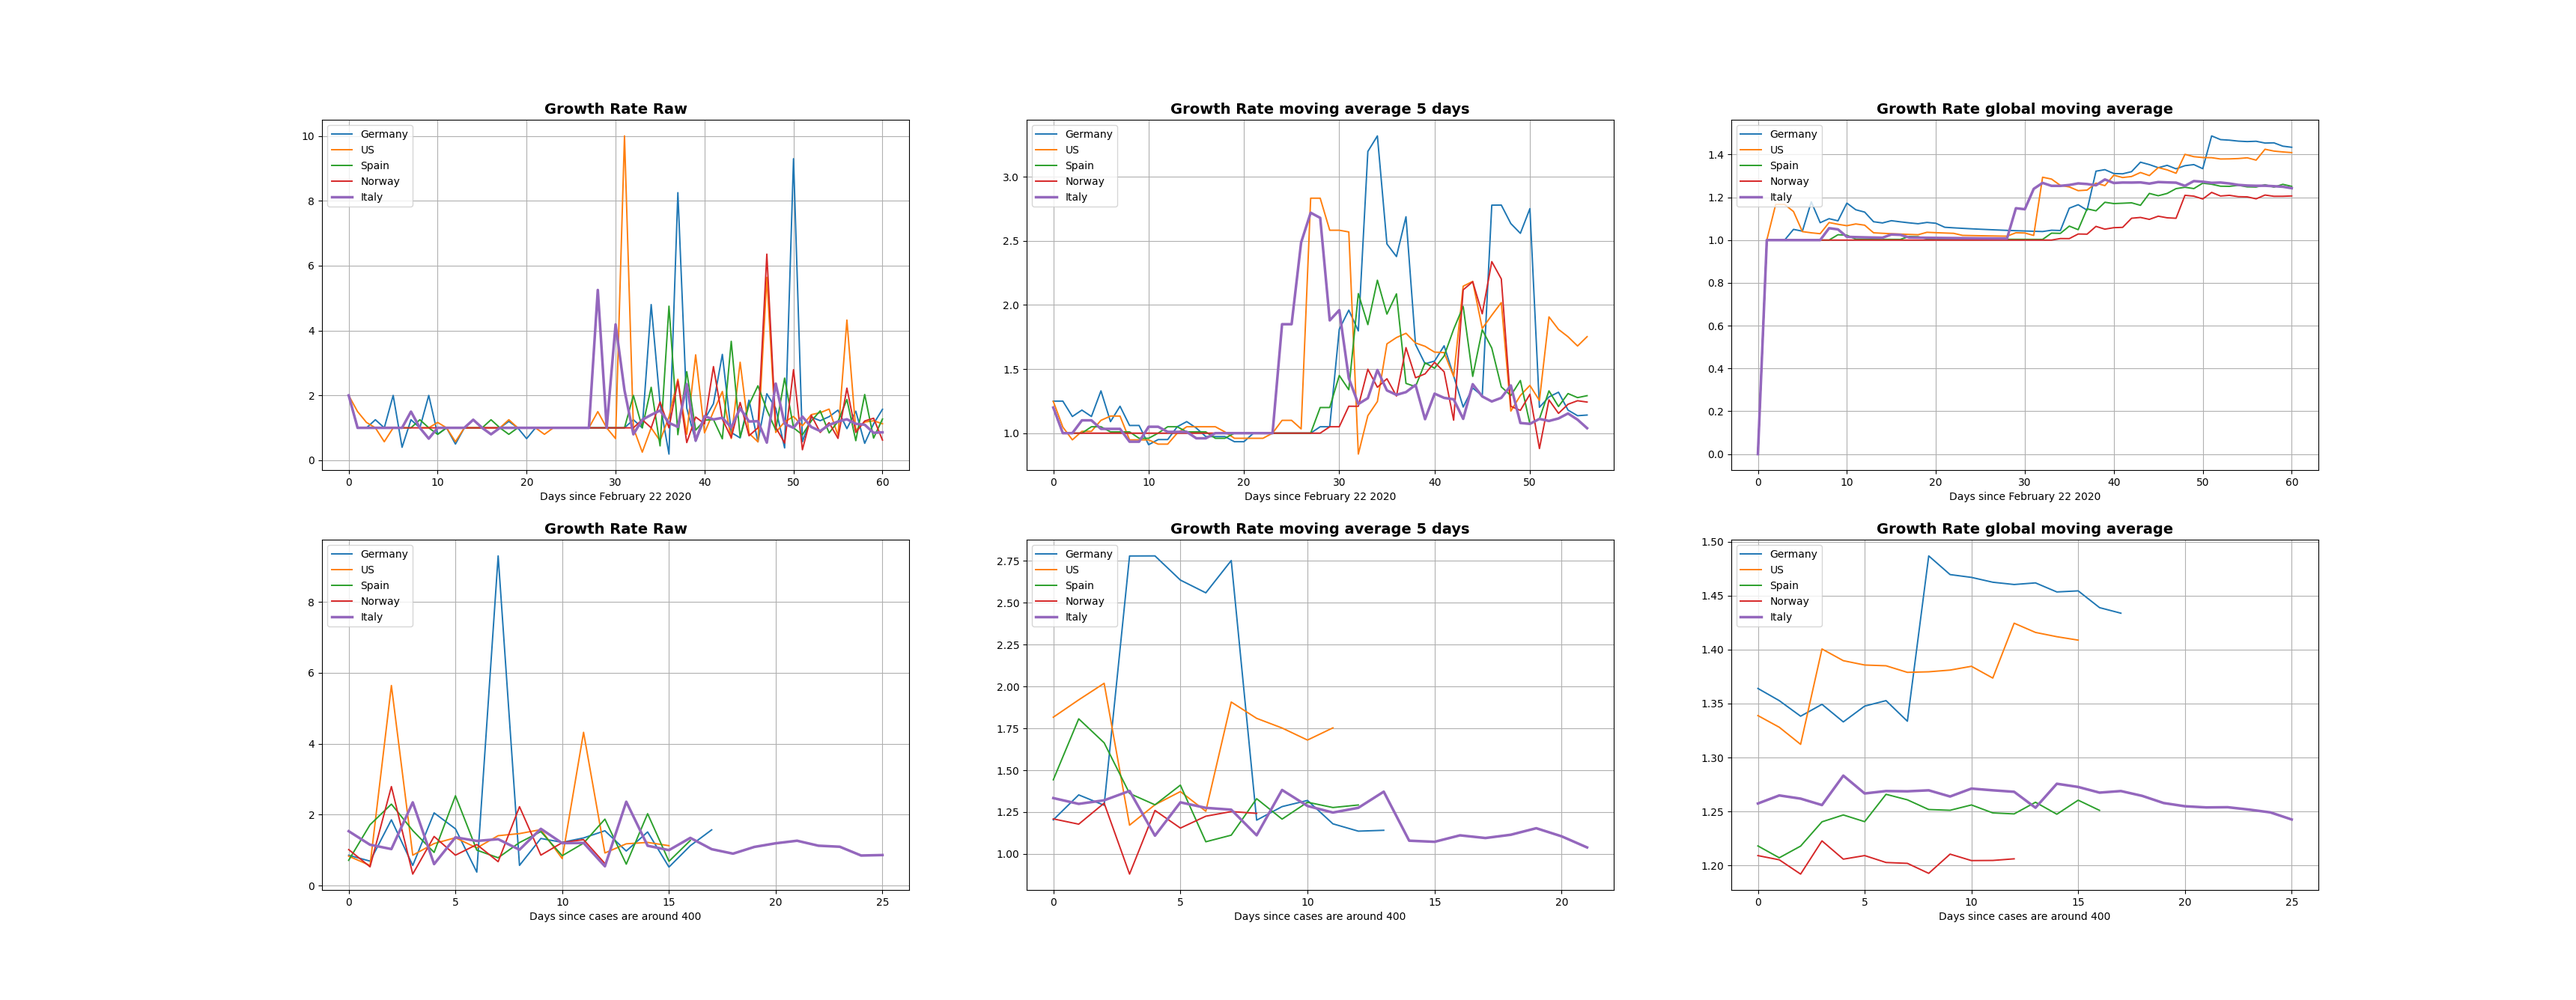
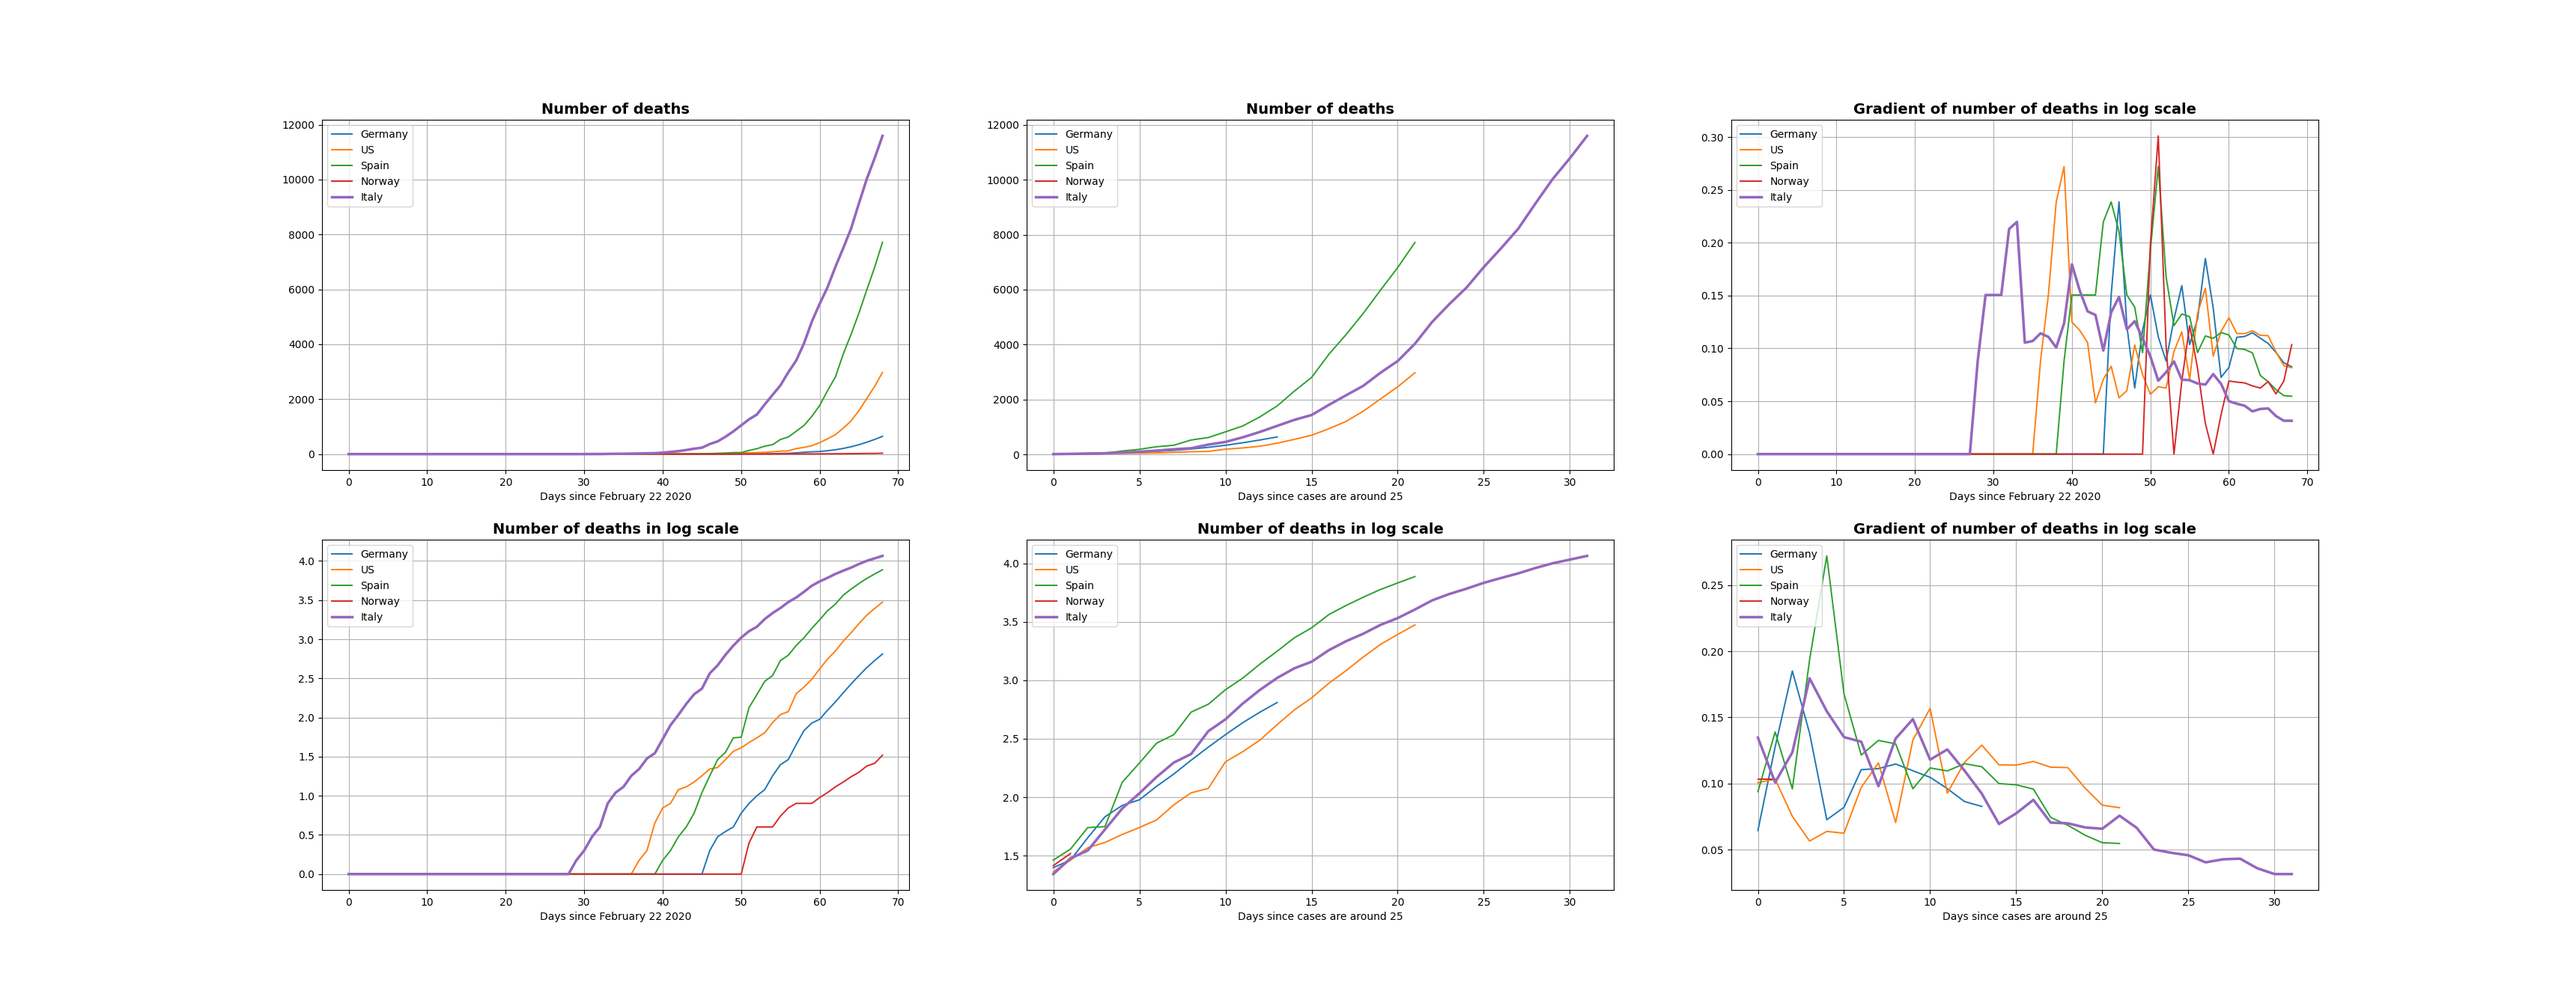
Plot deaths and not growth

diff --git a/utils/plot.py b/utils/plot.py
@@ -1,7 +1,7 @@
 import matplotlib.pyplot as plt
 import numpy as np
 
-def plot_cases(confirmed, align_indexes, align_around):
+def plot(confirmed, align_indexes, align_around, title):
     # Simple graph
     plt.subplot(2, 3, 1)
     for c, v in confirmed.items():
@@ -12,7 +12,7 @@ def plot_cases(confirmed, align_indexes, align_around):
         plt.plot(v, label=c, linewidth=linewidth)
 
     plt.legend(loc="upper left")
-    plt.title("Number of cases", fontsize=14, fontweight='bold')
+    plt.title(f"Number of {title}", fontsize=14, fontweight='bold')
     plt.xlabel(f"Days since February 22 2020")
     plt.grid()
 
@@ -26,7 +26,7 @@ def plot_cases(confirmed, align_indexes, align_around):
         plt.plot(v[align_indexes[c]:], label=c, linewidth=linewidth)
         
     plt.legend(loc="upper left")
-    plt.title("Number of cases", fontsize=14, fontweight='bold')
+    plt.title(f"Number of {title}", fontsize=14, fontweight='bold')
     plt.xlabel(f"Days since cases are around {align_around}")
     plt.grid()
 
@@ -43,7 +43,7 @@ def plot_cases(confirmed, align_indexes, align_around):
         plt.plot(array, label=c, linewidth=linewidth)
 
     plt.legend(loc="upper left")
-    plt.title("Gradient of number of cases in log scale", fontsize=14, fontweight='bold')
+    plt.title(f"Gradient of number of {title} in log scale", fontsize=14, fontweight='bold')
     plt.xlabel(f"Days since February 22 2020")
     plt.grid()
 
@@ -58,7 +58,7 @@ def plot_cases(confirmed, align_indexes, align_around):
         plt.plot(np.log10(array+1), label=c, linewidth=linewidth)
 
     plt.legend(loc="upper left")
-    plt.title("Number of cases in log scale", fontsize=14, fontweight='bold')
+    plt.title(f"Number of {title} in log scale", fontsize=14, fontweight='bold')
     plt.xlabel(f"Days since February 22 2020")
     plt.grid()
 
@@ -73,7 +73,7 @@ def plot_cases(confirmed, align_indexes, align_around):
         plt.plot(np.log10(array[align_indexes[c]:]+1), label=c, linewidth=linewidth)
 
     plt.legend(loc="upper left")
-    plt.title("Number of cases in log scale", fontsize=14, fontweight='bold')
+    plt.title(f"Number of {title} in log scale", fontsize=14, fontweight='bold')
     plt.xlabel(f"Days since cases are around {align_around}")
     plt.grid()
 
@@ -91,92 +91,7 @@ def plot_cases(confirmed, align_indexes, align_around):
         plt.plot(array, label=c, linewidth=linewidth)
 
     plt.legend(loc="upper left")
-    plt.title("Gradient of number of cases in log scale", fontsize=14, fontweight='bold')
-    plt.xlabel(f"Days since cases are around {align_around}")
-    plt.grid()
-
-    plt.show()
-
-
-def plot_growth(growths, align_indexes, align_around):
-    growth_rate, growth_rate_moving_average, growth_rate_global_moving_average = growths
-    # Raw Growth Rate
-    plt.subplot(2, 3, 1)
-    for c, v in growth_rate.items():
-        if c == "Italy" or c == "VA":
-            linewidth = 2.5
-        else:
-            linewidth = 1.4
-        plt.plot(v, label=c, linewidth=linewidth)
-        
-    plt.legend(loc="upper left")
-    plt.title("Growth Rate Raw", fontsize=14, fontweight='bold')
-    plt.xlabel(f"Days since February 22 2020")
-    plt.grid()
-
-    # Raw Growth Rate
-    plt.subplot(2, 3, 2)
-    for c, v in growth_rate_moving_average.items():
-        if c == "Italy" or c == "VA":
-            linewidth = 2.5
-        else:
-            linewidth = 1.4
-        plt.plot(v, label=c, linewidth=linewidth)
-        
-    plt.legend(loc="upper left")
-    plt.title("Growth Rate moving average 5 days", fontsize=14, fontweight='bold')
-    plt.xlabel(f"Days since February 22 2020")
-    plt.grid()
-
-    plt.subplot(2, 3, 3)
-    for c, v in growth_rate_global_moving_average.items():
-        if c == "Italy" or c == "VA":
-            linewidth = 2.5
-        else:
-            linewidth = 1.4
-        plt.plot(v, label=c, linewidth=linewidth)
-        
-    plt.legend(loc="upper left")
-    plt.title("Growth Rate global moving average", fontsize=14, fontweight='bold')
-    plt.xlabel(f"Days since February 22 2020")
-    plt.grid()
-
-    plt.subplot(2, 3, 4)
-    for c, v in growth_rate.items():
-        if c == "Italy" or c == "VA":
-            linewidth = 2.5
-        else:
-            linewidth = 1.4
-        plt.plot(v[align_indexes[c]:], label=c, linewidth=linewidth)
-        
-    plt.legend(loc="upper left")
-    plt.title("Growth Rate Raw", fontsize=14, fontweight='bold')
-    plt.xlabel(f"Days since cases are around {align_around}")
-    plt.grid()
-
-    plt.subplot(2, 3, 5)
-    for c, v in growth_rate_moving_average.items():
-        if c == "Italy" or c == "VA":
-            linewidth = 2.5
-        else:
-            linewidth = 1.4
-        plt.plot(v[align_indexes[c]:], label=c, linewidth=linewidth)
-        
-    plt.legend(loc="upper left")
-    plt.title("Growth Rate moving average 5 days", fontsize=14, fontweight='bold')
-    plt.xlabel(f"Days since cases are around {align_around}")
-    plt.grid()
-
-    plt.subplot(2, 3, 6)
-    for c, v in growth_rate_global_moving_average.items():
-        if c == "Italy" or c == "VA":
-            linewidth = 2.5
-        else:
-            linewidth = 1.4
-        plt.plot(v[align_indexes[c]:], label=c, linewidth=linewidth)
-        
-    plt.legend(loc="upper left")
-    plt.title("Growth Rate global moving average", fontsize=14, fontweight='bold')
+    plt.title(f"Gradient of number of {title} in log scale", fontsize=14, fontweight='bold')
     plt.xlabel(f"Days since cases are around {align_around}")
     plt.grid()
 

diff --git a/run_countries.py b/run_countries.py
@@ -3,28 +3,32 @@ import json
 from collections import defaultdict
 import numpy as np
 
-from utils.plot import plot_cases, plot_growth
+from utils.plot import plot
 from utils.country_data import compute_countries_confirmed_cases
-from utils.growth_rate import compute_growth_rate
 
-ALIGN_AROUND = 400 # cases
+ALIGN_AROUND = 100 # cases
 
 if __name__ == "__main__":    
     # Compute the number of cases for each country
-    confirmed = compute_countries_confirmed_cases()
+    confirmed, confirmed_deaths = compute_countries_confirmed_cases()
 
     # Compute maximum number of cases we can align around: min (ALIGN_AROUND, x)
     # Take the second biggest one
-    minimums = [sorted(v)[-2] for c, v in confirmed.items()]
-    new_align_around = np.minimum(ALIGN_AROUND, np.min(minimums))
+    minimums_cases = [sorted(v)[-2] for c, v in confirmed.items()]
+    minimums_deaths = [sorted(v)[-2] for c, v in confirmed_deaths.items()]
+    new_align_around_cases = np.minimum(ALIGN_AROUND, np.min(minimums_cases))
+    new_align_around_deaths = np.minimum(ALIGN_AROUND, np.min(minimums_deaths))
 
     # Compute the index for each country in order to align around the same number of cases
-    align_indexes = defaultdict(list)
+    align_indexes_cases = defaultdict(list)
+    align_indexes_deaths = defaultdict(list)
+
     for c, v in confirmed.items():
-        dist = np.abs(np.array(v) - new_align_around)
-        align_indexes[c] = np.argmin(dist)
+        dist = np.abs(np.array(v) - new_align_around_cases)
+        align_indexes_cases[c] = np.argmin(dist)
+    for c, v in confirmed_deaths.items():
+        dist = np.abs(np.array(v) - new_align_around_deaths)
+        align_indexes_deaths[c] = np.argmin(dist)
 
-    growths = compute_growth_rate(confirmed)
-
-    plot_cases(confirmed, align_indexes, new_align_around)
-    plot_growth(growths, align_indexes, new_align_around)
+    plot(confirmed, align_indexes_cases, new_align_around_cases, "cases")
+    plot(confirmed_deaths, align_indexes_deaths, new_align_around_deaths, "deaths")

diff --git a/utils/country_data.py b/utils/country_data.py
@@ -23,17 +23,27 @@ def compute_countries_confirmed_cases() -> dict:
     # Get all data for each country
     all_countries = parse_countries()
     confirmed = defaultdict(list)
+    confirmed_deaths = defaultdict(list)
     
     for c in all_countries:
-        local_data = [d.get("confirmed") for d in data[c]]
+        local_data_cases = [d.get("confirmed") for d in data[c]]
+        local_data_deaths = [d.get("deaths") for d in data[c]]
         # Clean when there are dates with no update and a "sudden" jump
-        new_local_data = list()
+        new_local_data_cases = list()
+        new_local_data_deaths = list()
 
-        for idx, d in enumerate(local_data):
-            if idx > 1 and idx < len(local_data) and d - local_data[idx-1] == 0:
-                new_local_data.append((local_data[idx-1] + local_data[idx+1]) / 2)
+        for idx, d in enumerate(local_data_cases):
+            if idx > 1 and idx < len(local_data_cases) and d - local_data_cases[idx-1] == 0:
+                new_local_data_cases.append((local_data_cases[idx-1] + local_data_cases[idx+1]) / 2)
             else:
-                new_local_data.append(d)
+                new_local_data_cases.append(d)
 
-        confirmed[c] = new_local_data
-    return confirmed
+        for idx, d in enumerate(local_data_deaths):
+            if idx > 1 and idx < len(local_data_deaths) and d - local_data_deaths[idx-1] == 0:
+                new_local_data_deaths.append((local_data_deaths[idx-1] + local_data_deaths[idx+1]) / 2)
+            else:
+                new_local_data_deaths.append(d)
+
+        confirmed[c] = new_local_data_cases
+        confirmed_deaths[c] = new_local_data_deaths
+    return confirmed, confirmed_deaths

diff --git a/run_italy.py b/run_italy.py
@@ -3,9 +3,8 @@ import json
 from collections import defaultdict
 import numpy as np
 
-from utils.plot import plot_cases, plot_growth
+from utils.plot import plot
 from utils.italy_data import compute_provinces_confirmed_cases
-from utils.growth_rate import compute_growth_rate
 
 ALIGN_AROUND = 20 # cases
 
@@ -24,7 +23,5 @@ if __name__ == "__main__":
         dist = np.abs(np.array(v) - ALIGN_AROUND)
         align_indexes[c] = np.argmin(dist)
 
-    growths = compute_growth_rate(confirmed)
 
-    plot_cases(confirmed, align_indexes, ALIGN_AROUND)
-    plot_growth(growths, align_indexes, ALIGN_AROUND)
+    plot(confirmed, align_indexes, ALIGN_AROUND, "cases")

diff --git a/utils/italy_data.py b/utils/italy_data.py
@@ -30,7 +30,7 @@ def compute_provinces_confirmed_cases() -> dict:
 
         # Clean from "mistakes" in the data
         for idx, d in enumerate(local_data):
-            if idx > 1 and idx < len(local_data) and d - local_data[idx-1] == 0:
+            if idx > 1 and idx < (len(local_data)-1) and d - local_data[idx-1] == 0:
                 # Clean when there are dates with no update and a "sudden" jump
                 new_local_data.append((local_data[idx-1] + local_data[idx+1]) / 2)
             if idx > 0 and d < local_data[idx-1]:

diff --git a/README.md b/README.md
@@ -20,12 +20,11 @@ You can include other countries or provinces, if available, by just adding the n
 * ```python run_countries.py Japan```
 * ```python run_italy.py VE```
 
-## Results as of March 22nd 2020
+## Results as of March 30th 2020
 
 ### COUNTRIES
 ![Cases](https://github.com/dariocazzani/COVID-19-trends/blob/master/images/image1.png)
-![Growth Rate](https://github.com/dariocazzani/COVID-19-trends/blob/master/images/image2.png)
+![Deaths](https://github.com/dariocazzani/COVID-19-trends/blob/master/images/image2.png)
 
 ### PROVINCES
 ![Cases](https://github.com/dariocazzani/COVID-19-trends/blob/master/images/image3.png)
-![Growth Rate](https://github.com/dariocazzani/COVID-19-trends/blob/master/images/image4.png)
